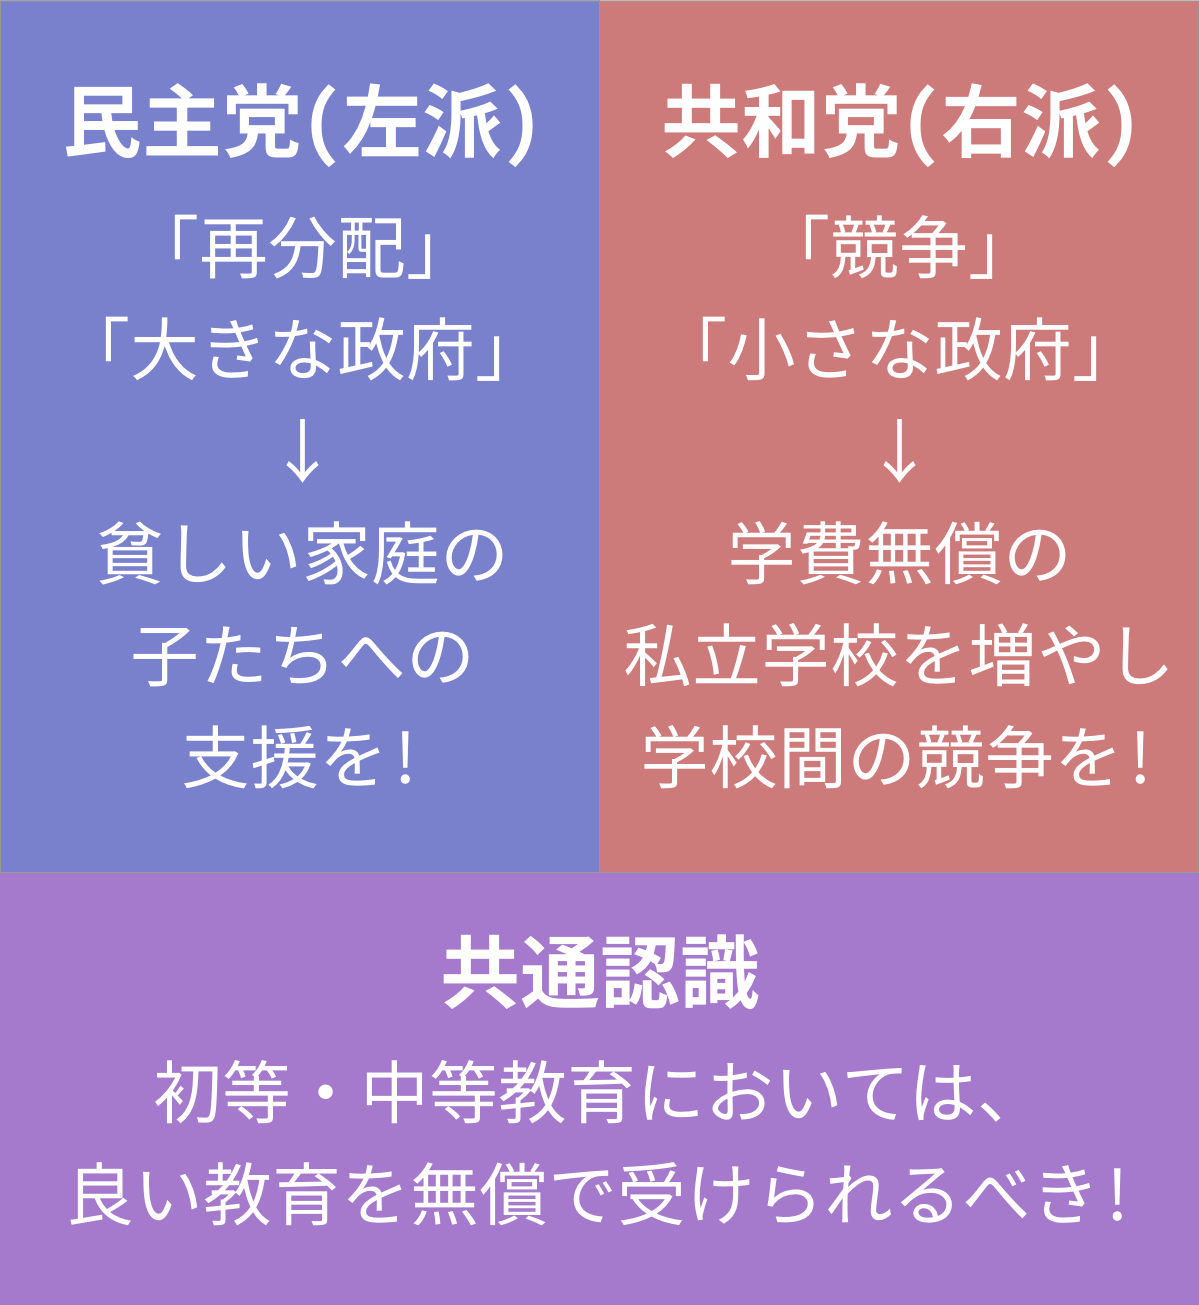
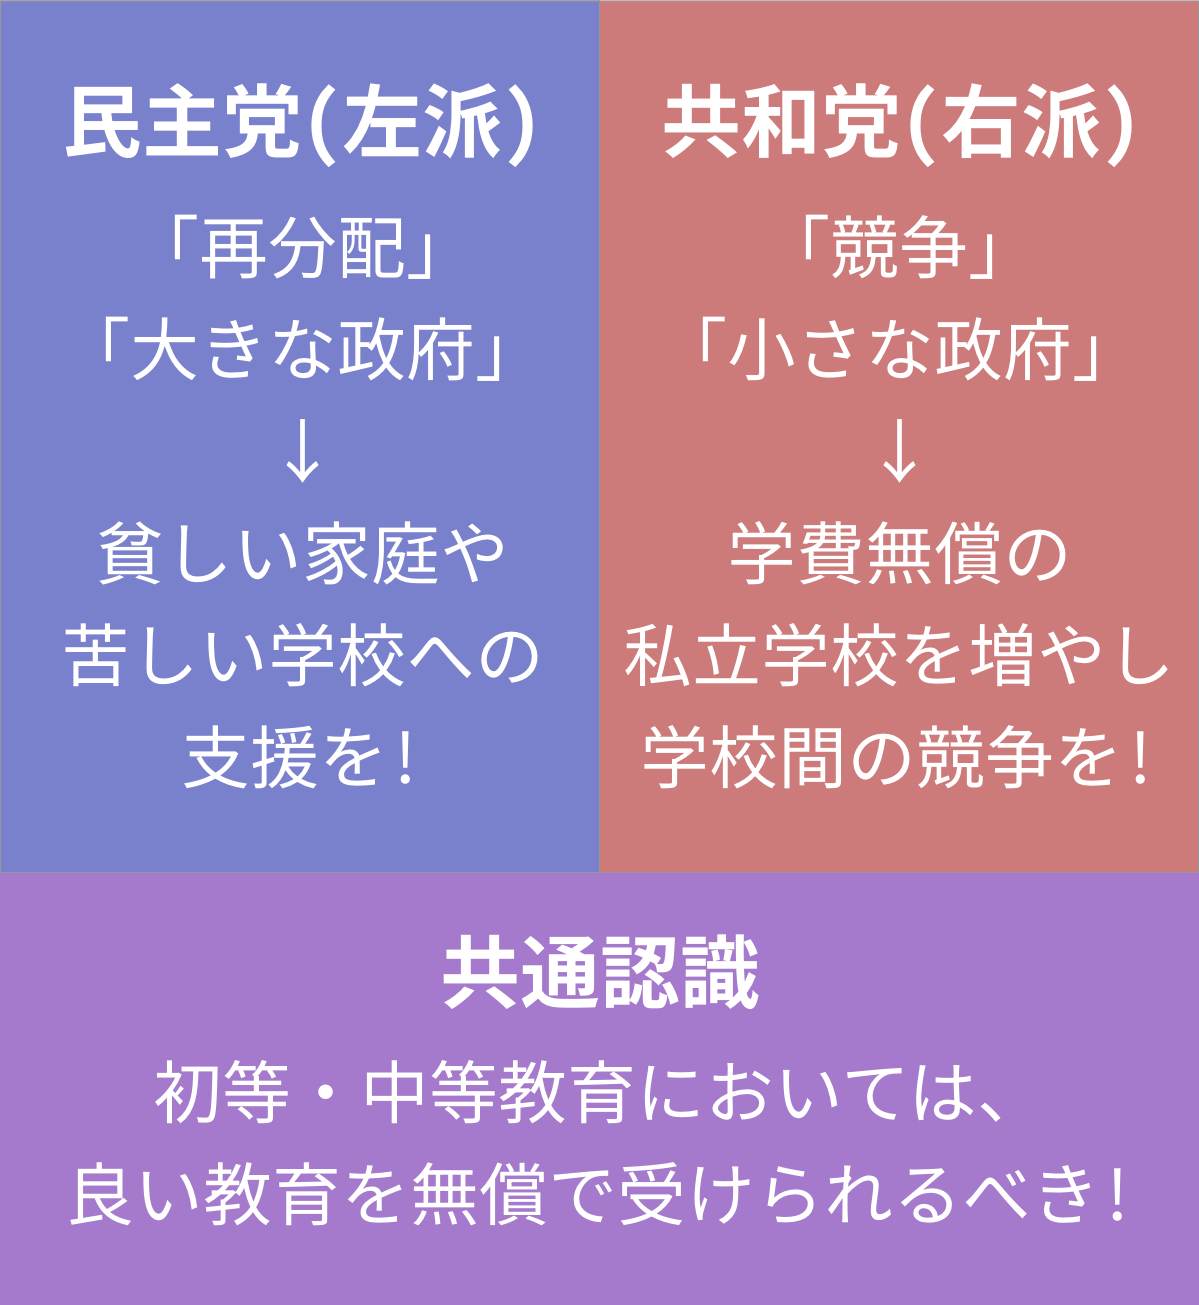
:pencil:

Changed region(s): [[0.0617, 0.3985, 0.4629, 0.5211]]

diff --git a/chapter-4.md b/chapter-4.md
@@ -84,11 +84,11 @@
   <img src="the-prize-draft-images/left-right-1.png" />
 </figure></p>
 
-ここで質問なのだが、「アメリカの初等・中等教育レベルを上げるにはどうすれば良いか」と民主党・共和党それぞれに問うたとき、どのような答えが返ってくるだろうか。ちなみに、「初等=小学校」「中等=中学・高校」という意味である。
+ここで質問なのだが、「アメリカの初等・中等教育レベルを上げるにはどうすれば良いか」と民主党・共和党それぞれに問うたとき、どのような答えが返ってくるだろうか。ちなみに、「初等 = 小学校」「中等 = 中学・高校」という意味である。
 
 「再分配を大事にし、大きな政府を求める民主党」は、おそらくこう答えるだろう。
 
-— 貧しい家庭の子たちへの支援を充実させるべきだ。
+— 貧しい家庭や、苦しい学校への支援を充実させるべきだ。
 
 では、「競争を大事にし、小さな政府を求める共和党」はどう答えるか。アメリカはよく「自己責任の国」と言われるから、以下のような返事が返ってきてもおかしくない。
 
@@ -108,9 +108,23 @@
   <img src="the-prize-draft-images/left-right-2.png" />
 </figure></p>
 
-### 日本との比較
+### 日本のほうが「教育費は自己責任」
 
-アメリカは1965年にこの世論が形成された https://en.wikipedia.org/wiki/Elementary_and_Secondary_Education_Act
+アメリカにおいて、「初等・中等教育においては、良い教育を無償で受けられるべき」という考え方は、大戦後に世論を味方につけ、1965年の「[初等中等教育法](https://en.wikipedia.org/wiki/Elementary_and_Secondary_Education_Act)」成立以後は普遍的な価値観となった。(再度言うが、「初等 = 小学校」「中等 = 中学・高校」という意味である。)
+
+これは、日本より遥かに早い。
+
+日本の場合、「初等・中等教育においては、良い教育を無償で受けられるべき」という価値観が政治で争点になったのは、大戦後、[2009年の衆議院選挙が初めて](https://goo.gl/B7k68n#h2CIT8Zc)だ。そう、自民党から当時の民主党へと「政権交代」が起きたときである。
+
+この政権交代で、悪名高い「子ども手当」とセットで、公立高校が無償化された。アメリカに半世紀遅れでようやく価値観が追いついたのだ。ちなみに、いまでも日本の高校の[約4校に1校](http://www.mext.go.jp/a_menu/koutou/shinkou/main5_a3.htm)は私立校だが、アメリカだと有償の私立高校の割合は[約12校に1校](https://nces.ed.gov/programs/digest/d15/tables/dt15_205.10.asp?current=yes)である(生徒数でみた場合)。
+
+日本のほうがアメリカよりも「教育費は自己責任」という価値観が強いと思われる理由は他にもある。
+
+(need to be careful - 日本の教育投資は義務教育には多め)
+
+http://tmaita77.blogspot.com/2015/11/blog-post_29.html
+
+たとえば、諸外国では当たり前だった
 
 初等・中等「良い教育を無償で」という世論に達するのに、日本は時間がかかった。 → 衆議院選挙の争点
 
@@ -119,3 +133,5 @@ there are private schools - 10% are private schools in the US https://nces.ed.go
 余談だが、大学をみてみると・・・最近は給付型奨学金が話題になったが・・・日本のほうがよっぽど・・
 
 Page 11 - 12 of the book
+
+「無償ありき」で良くしようとした場合、民主党は貧困や就学前教育のほうにいくが、
